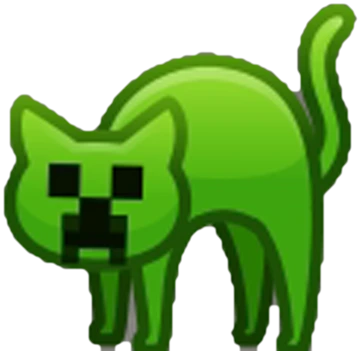
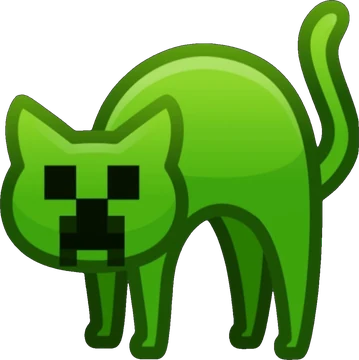
v76

diff --git a/docs/app.js b/docs/app.js
@@ -103,7 +103,7 @@ const RAR = {
   common: '#8b8f9c', rare: '#3b82f6', epic: '#a855f7', legend: '#ffc83d', myth: '#ff4d5e', divine: '#ff6bf0',
 };
 function rar(p) { return p < 100 ? 'common' : p < 400 ? 'rare' : p < 1500 ? 'epic' : p < 5000 ? 'legend' : p < 30000 ? 'myth' : 'divine'; }
-const OLD = { 'Scared Cat': 30000, Lollipop: 10, Bear: 15, Cookie: 20, Rose: 25, Balloon: 35, Cake: 50, Cupcake: 65, Bouquet: 80, Clover: 100, Pumpkin: 130, Rocket: 170, Trophy: 220, Joystick: 300, Ring: 400, Orb: 550, Watch: 750, Diamond: 1000, Moai: 1400, Dragon: 2000, Unicorn: 2750, Castle: 3500, UFO: 5000, Crown: 7500, Galaxy: 10000, Volcano: 12000, Crystal: 15000, Trident: 20000, Island: 30000, Satellite: 40000, Meteor: 50000, Saturn: 75000, Comet: 100000, Earth: 150000, Sun: 250000, Nova: 500000, 'Big Bang': 1000000 };
+const OLD = { Lollipop: 10, Bear: 15, Cookie: 20, Rose: 25, Balloon: 35, Cake: 50, Cupcake: 65, Bouquet: 80, Clover: 100, Pumpkin: 130, Rocket: 170, Trophy: 220, Joystick: 300, Ring: 400, Orb: 550, Watch: 750, Diamond: 1000, Moai: 1400, Dragon: 2000, Unicorn: 2750, Castle: 3500, UFO: 5000, Crown: 7500, Galaxy: 10000, Volcano: 12000, Crystal: 15000, Trident: 20000, Island: 30000, Satellite: 40000, Meteor: 50000, Saturn: 75000, Comet: 100000, Earth: 150000, Sun: 250000, Nova: 500000, 'Big Bang': 1000000 };
 /* настоящие NFT-подарки (картинки с вырезанным фоном) */
 const ZW = '\u200b';   // невидимый хвост: отдельная «модель» NFT с тем же названием
 const ITEMS = [
@@ -115,6 +115,7 @@ const ITEMS = [
   ['Llama Float', 600, 'g_llama.webp', '#ff8fc0'],   // только в апгрейде (в кейсах не падает)
   ['Bear', 15, 'g_bear2.webp', '#c98a4a'], ['Heart', 15, 'g_heart.webp', '#ff5fa8'], ['Easter Egg', 480, 'g_egg.webp', '#6f8fe0'], ['Lol Pop', 485, 'g_lolpop.webp', '#ff6fb5'], ['Holiday Drink', 496, 'g_drink.webp', '#ff5d5d'],
   ['Ice Cream', 500, 'g_icecream.webp', '#c0763c'], ['Light Sword', 530, 'g_sword.webp', '#8a7bff'], ['Toy Bear', 2700, 'g_bear.webp', '#ff7ac8'],
+  ['Perfume Bottle', 7010, 'g_perfume.webp', '#ff8fd0'], ['Astral Shard', 10389, 'g_shard.webp', '#5fe0a0'], ['Precious Peach', 21217, 'g_peach.webp', '#b64fe0'], ['Scared Cat', 26522, 'g_cat.webp', '#5cc61a'], ['Plush Pepe', 601308, 'g_pepe.webp', '#7be04a'],
   ['Snow Globe', 555, 'g_snowglobe.webp', '#7fd6c0'], ['Diamond Ring', 2700, 'g_ring.webp', '#ff4fa0'], ['Ginger Cookie', 490, 'g_cookie.webp', '#4aa8ff'], ['Vice Cream', 450, 'g_vice.webp', '#f2c14e'], ['Sky Stilettos', 1500, 'g_shoes.webp', '#ff7ac8'],
   ['Spy Agaric'+ZW, 570, 'g_agaric_b.webp', '#4aa8ff'], ['Lol Pop'+ZW, 490, 'g_lolpop_p.webp', '#d84fe0'], ['Flying Broom', 1500, 'g_broom.webp', '#5b8def'], ['Witch Hat', 745, 'g_hat.webp', '#a06bf0'], ['Clover Pin', 633, 'g_clover.webp', '#7a6bf0'], ['Faith Amulet', 769, 'g_amulet.webp', '#8a7bff'],
 ].map(([n, p, img, c]) => ({ n, p, img, c, r: rar(p), nc: false }));
@@ -278,17 +279,17 @@ function soon(el) { el.innerHTML = '<div class="soon"><b>🛠</b>В разраб
 function home(el) {
   const cells = ['💣', '', 'D', '', 'D', '💣', 'D', '', '💣'].map(c => `<i>${c === 'D' ? DIA : c}</i>`).join('');
   const art = {
-    cases: '<div class="art a-cs"><img class="chest" src="case.webp?v=75" alt=""><img class="gf g1" src="case_toxic.webp?v=75" alt=""><i class="dot d1"></i><i class="dot d2"></i><i class="dot d3"></i></div>',
+    cases: '<div class="art a-cs"><img class="chest" src="case.webp?v=76" alt=""><img class="gf g1" src="case_toxic.webp?v=76" alt=""><i class="dot d1"></i><i class="dot d2"></i><i class="dot d3"></i></div>',
     crash: '<div class="art a-crash"><svg viewBox="0 0 100 100" preserveAspectRatio="none"><path d="M4 90 C 32 88, 54 68, 88 16" fill="none" stroke="#fff" stroke-width="3.5" stroke-linecap="round" opacity=".85"/></svg><span class="rkt" id="hrkt"></span><em>x2.45</em></div>',
     mines: `<div class="art a-mines">${cells}</div>`,
-    upgrade: '<div class="art a-up"><span class="u u1"><img src="g_champagne.webp?v=14" alt=""></span><b>→</b><span class="u u2"><img src="g_cup.webp?v=75" alt=""></span><b>→</b><span class="u u3"><img src="g_swag.webp?v=75" alt=""></span></div>',
+    upgrade: '<div class="art a-up"><span class="u u1"><img src="g_champagne.webp?v=14" alt=""></span><b>→</b><span class="u u2"><img src="g_cup.webp?v=76" alt=""></span><b>→</b><span class="u u3"><img src="g_swag.webp?v=76" alt=""></span></div>',
     roulette: '<div class="art a-roul"><i class="wheel"></i><i class="ptr"></i></div>',
     ladder: '<div class="art a-ld"><div><i></i><i class="hl"></i><i></i><i></i><i></i></div><div><i></i><i class="stn"></i><i class="ok"></i><i></i><i></i></div><div><i class="ok"></i><i></i><i></i><i class="stn"></i><i></i></div><div><i></i><i class="me"></i><i></i><i></i><i class="stn"></i></div></div>',
     tower: '<div class="art a-tw"><div><i></i><i class="hl"></i><i></i></div><div><i class="ok"></i><i></i><i></i></div><div><i></i><i class="ok"></i><i></i></div><div><i class="ok"></i><i></i><i></i></div></div>',
     plinko: '<div class="art a-plk2"><svg class="plsvg" viewBox="0 0 100 100" preserveAspectRatio="xMidYMid meet"><circle cx="43" cy="24" r="2" fill="#fff" opacity=".92"/><circle cx="57" cy="24" r="2" fill="#fff" opacity=".92"/><circle cx="36" cy="35" r="2" fill="#fff" opacity=".92"/><circle cx="50" cy="35" r="2" fill="#fff" opacity=".92"/><circle cx="64" cy="35" r="2" fill="#fff" opacity=".92"/><circle cx="29" cy="46" r="2" fill="#fff" opacity=".92"/><circle cx="43" cy="46" r="2" fill="#fff" opacity=".92"/><circle cx="57" cy="46" r="2" fill="#fff" opacity=".92"/><circle cx="71" cy="46" r="2" fill="#fff" opacity=".92"/><circle cx="22" cy="57" r="2" fill="#fff" opacity=".92"/><circle cx="36" cy="57" r="2" fill="#fff" opacity=".92"/><circle cx="50" cy="57" r="2" fill="#fff" opacity=".92"/><circle cx="64" cy="57" r="2" fill="#fff" opacity=".92"/><circle cx="78" cy="57" r="2" fill="#fff" opacity=".92"/><circle cx="15" cy="68" r="2" fill="#fff" opacity=".92"/><circle cx="29" cy="68" r="2" fill="#fff" opacity=".92"/><circle cx="43" cy="68" r="2" fill="#fff" opacity=".92"/><circle cx="57" cy="68" r="2" fill="#fff" opacity=".92"/><circle cx="71" cy="68" r="2" fill="#fff" opacity=".92"/><circle cx="85" cy="68" r="2" fill="#fff" opacity=".92"/><rect x="8.8" y="86" width="10.4" height="9" rx="3" fill="#ff5a6e" opacity=".85"/><rect x="20.8" y="86" width="10.4" height="9" rx="3" fill="#ff8a4a" opacity=".85"/><rect x="32.8" y="86" width="10.4" height="9" rx="3" fill="#ffc83d" opacity=".85"/><rect x="44.8" y="86" width="10.4" height="9" rx="3" fill="#3ee48f" opacity=".85"/><rect x="56.8" y="86" width="10.4" height="9" rx="3" fill="#ffc83d" opacity=".85"/><rect x="68.8" y="86" width="10.4" height="9" rx="3" fill="#ff8a4a" opacity=".85"/><rect x="80.8" y="86" width="10.4" height="9" rx="3" fill="#ff5a6e" opacity=".85"/><circle class="plb" cx="50" cy="8" r="3.4" fill="#fff6b0" stroke="#ffb800" stroke-width="1"/></svg></div>',
   };
   const T = (id, cls, name, extra = '') => `<button class="tile ${cls}" data-id="${id}">${art[id]}<h3>${name}</h3>${extra}</button>`;
-  const strip = ITEMS.map(i => `<img src="${i.img}?v=75" alt="" draggable="false">`).join('');
+  const strip = ITEMS.map(i => `<img src="${i.img}?v=76" alt="" draggable="false">`).join('');
   el.innerHTML = `<div class="mq home"><div class="mq-t">${strip}${strip}</div></div><h2 class="hd">Игры</h2><div class="hub">
     ${T('cases', 'wide t-cases', 'CASES')}
     <div class="row2">${T('crash', 'sq t-crash', 'CRASH', LIVE_BADGE)}${T('mines', 'sq t-mines', 'MINES', '<span class="new">NEW</span>')}</div>
@@ -311,7 +312,7 @@ function casesList(el) {
   const g = document.createElement('div'); g.className = 'grid2 cs-list'; el.append(g);
   CASES.forEach((c, i) => {
     const d = document.createElement('button'); d.className = 'case'; d.style.animationDelay = Math.min(i, 8) * 40 + 'ms';
-    d.innerHTML = `${c.daily ? '<span class="tag">Бесплатно</span>' : c.promo ? '<span class="tag">Промокод</span>' : ''}<span class="em"><img class="gi" src="${c.img}?v=75" alt="" draggable="false"></span><div class="nm"><span>${esc(c.n)}</span><span class="pr">${c.price ? '⭐ ' + fmt(c.price) : c.promo ? 'Промо' : '24 ч'}</span></div>`;
+    d.innerHTML = `${c.daily ? '<span class="tag">Бесплатно</span>' : c.promo ? '<span class="tag">Промокод</span>' : ''}<span class="em"><img class="gi" src="${c.img}?v=76" alt="" draggable="false"></span><div class="nm"><span>${esc(c.n)}</span><span class="pr">${c.price ? '⭐ ' + fmt(c.price) : c.promo ? 'Промо' : '24 ч'}</span></div>`;
     d.onclick = () => go('case', c); g.append(d);
   });
 }
@@ -347,7 +348,7 @@ function caseScreen(el, c) {
   bar(el, c.n, 'cases');
   const mk = it => `<div class="it" style="--c:${it.c}">${ico(it)}</div>`;
   let cnt = c.daily || c.promo ? 1 : Math.min(3, Math.max(1, Number(store.get('gr2_cnt', 1)) || 1));
-  el.insertAdjacentHTML('beforeend', `<img class="case-hero" src="${c.img}?v=75" alt=""><div class="reels" id="reels"></div>
+  el.insertAdjacentHTML('beforeend', `<img class="case-hero" src="${c.img}?v=76" alt=""><div class="reels" id="reels"></div>
     <div class="win" id="win">${c.daily ? 'Бесплатный ежедневный кейс' : c.promo ? 'Открывается по промокоду' : 'Цена: ⭐ ' + fmt(c.price)}</div><div id="act"></div>
     ${c.daily || c.promo ? '' : `<div class="chips" id="cnt">${[1, 2, 3].map(n => `<button class="chip" data-n="${n}">x${n}</button>`).join('')}</div>`}
     <div class="openrow"><button class="btn" id="go"></button>${TURBO_BTN}</div>
@@ -540,7 +541,7 @@ function pickScreen(el, kind) {
 /* ---------- ракета (спрайт из видео) ---------- */
 const RK = { img: null, ok: false, FR: 360, COLS: 10, N: 90, FPS: 30 };
 function loadRocket() {
-  if (RK.img) return; RK.img = new Image(); RK.img.onload = () => { RK.ok = true; }; RK.img.onerror = () => {}; RK.img.src = 'rocket.webp?v=75';
+  if (RK.img) return; RK.img = new Image(); RK.img.onload = () => { RK.ok = true; }; RK.img.onerror = () => {}; RK.img.src = 'rocket.webp?v=76';
 }
 function drawRocket(ctx, x, y, size, t, alpha, rot) {
   if (!RK.ok) { ctx.save(); ctx.globalAlpha = alpha; ctx.font = `${size * .55}px serif`; ctx.textAlign = 'center'; ctx.textBaseline = 'middle'; ctx.fillText('🚀', x, y); ctx.restore(); return; }
@@ -737,8 +738,8 @@ function crashScreen(el) {
     betIn.disabled = G.phase !== 'wait' || !!myBet || pending > 0;
     const key = txt + '|' + cls + '|' + dis; if (key === lastBtn) return; lastBtn = key;
     const oi = pz && goBtn.querySelector('.nft-i');
-    if (oi && oi.getAttribute('src') === `${pz.img}?v=75`) goBtn.querySelector('.nft-t').textContent = txt;
-    else if (pz) goBtn.innerHTML = `<span class="nft-t">${esc(txt)}</span><img class="nft-i" src="${pz.img}?v=75" alt="" draggable="false">`; else goBtn.textContent = txt;
+    if (oi && oi.getAttribute('src') === `${pz.img}?v=76`) goBtn.querySelector('.nft-t').textContent = txt;
+    else if (pz) goBtn.innerHTML = `<span class="nft-t">${esc(txt)}</span><img class="nft-i" src="${pz.img}?v=76" alt="" draggable="false">`; else goBtn.textContent = txt;
     goBtn.className = cls; goBtn.disabled = dis;
   }
 
@@ -1958,7 +1959,7 @@ function refScreen(el) {
     $('#rfN', el).textContent = n; $('#rfE', el).textContent = fmt(d.earned || 0); $('#rfC', el).textContent = Math.floor(Math.max(0, n - 1) / 5) + 1;
     $('#rfChain', el).innerHTML = REF_STEPS.map((st, i) => {
       const it = st.g ? ITEM(st.g) : null, cls = i < done ? 'done' : (i === done && !(n > 0 && p === 0 && done === 5) ? 'next' : '');
-      const body = it ? `<img src="${it.img}?v=75" alt="" draggable="false">` : `<b>${fmt(st.c)}</b><i class="rc"></i>`;
+      const body = it ? `<img src="${it.img}?v=76" alt="" draggable="false">` : `<b>${fmt(st.c)}</b><i class="rc"></i>`;
       return `${i ? `<u class="${i <= done ? 'on' : ''}"></u>` : ''}<div class="rf-n ${cls}${it ? ' nft' : ''}"><div class="rf-ic">${body}${cls === 'done' ? '<em>✓</em>' : ''}</div><span>${esc(it ? it.n : 'Rushcoin')}</span><small>${st.t}</small></div>`;
     }).join('');
     $('#rfFill', el).style.width = (done / 5 * 100) + '%';

diff --git a/docs/index.html b/docs/index.html
@@ -10,7 +10,7 @@
 <link rel="preconnect" href="https://fonts.gstatic.com" crossorigin>
 <link href="https://fonts.googleapis.com/css2?family=Unbounded:wght@600;700;800&family=Manrope:wght@600;700;800&family=Rubik:wght@800&display=swap" rel="stylesheet">
 <script src="https://telegram.org/js/telegram-web-app.js"></script>
-<link rel="stylesheet" href="style.css?v=75">
+<link rel="stylesheet" href="style.css?v=76">
 </head>
 <body>
 <div id="splash"><video id="sv" src="intro.mp4" poster="intro.jpg" muted playsinline webkit-playsinline preload="auto" autoplay></video></div>
@@ -29,7 +29,7 @@
   </nav>
 </div>
 <div id="toast"></div>
-<script src="app.js?v=75"></script>
+<script src="app.js?v=76"></script>
 <script>
 (function(){var s=document.getElementById('splash'),v=document.getElementById('sv'),d=false;
 function hide(){if(d)return;d=true;s.classList.add('out');setTimeout(function(){s.remove()},800)}
